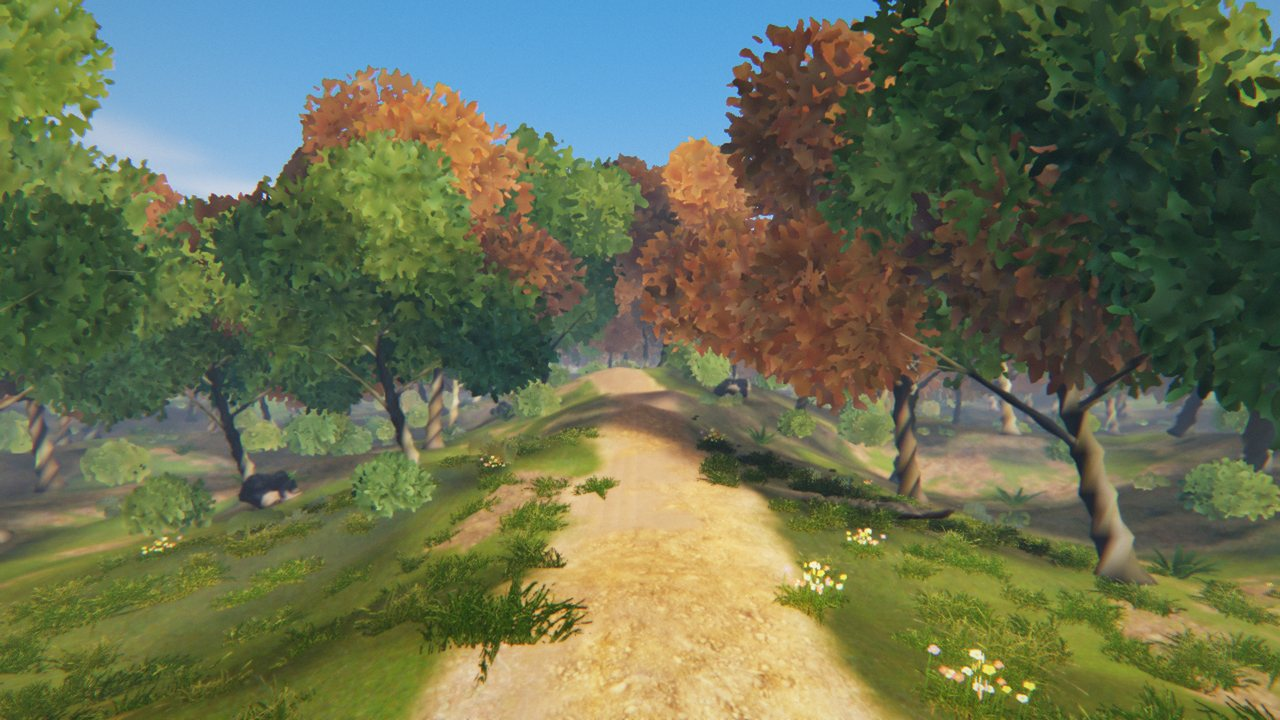
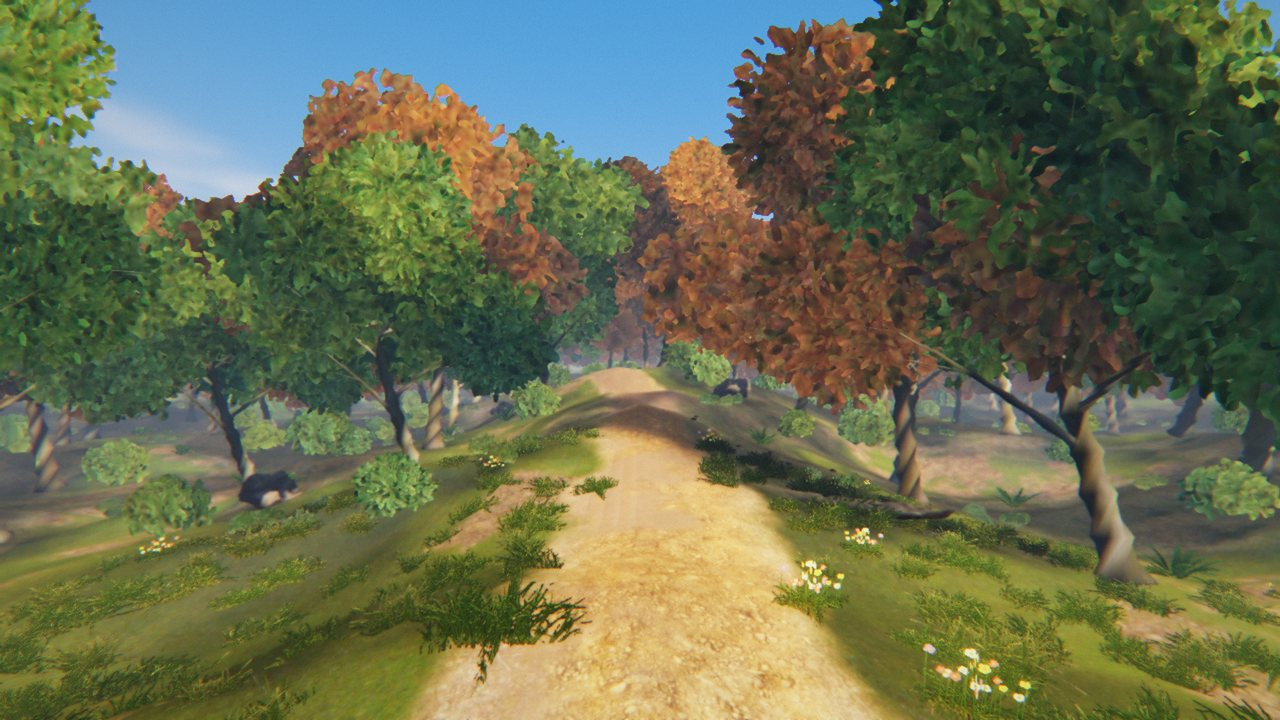
renderer and roadmap docs for foliage, refreshed readme images

diff --git a/docs/renderer.md b/docs/renderer.md
@@ -57,6 +57,19 @@ Pen+ textures have no mipmaps, so every atlas cell stores its own mip chain and 
 11. **Composite.** Exposure, ACES tone mapping, the colour grade, fades and flashes.
 12. **HUD.** The `message` and `status` text draws as glyph quads from a font atlas. The layout updates only when the text changes.
 
+## Foliage
+
+Trees, bushes, ferns and grass are generated offline by `tools/make_foliage.py` from CC0 Poly Haven leaf, frond, twig and bark textures, and stored as ordinary props with a per-vertex foliage flag.
+
+- **Leaf clusters.** Broadleaf crowns are a few hundred camera-facing cards. Each shows a baked sprite of about 80 overlapping leaves. Card normals point out from the crown centre, so the crown lights as one soft volume with a sunlit and a shaded side. The bake lights leaves from both sides and darkens the inside of the crown, and the shader adds sky light, wrap lighting and translucency when the sun is behind the leaves.
+- **Conifers** are crossed needle cards on outward branches, in irregular tiers with gaps. Willows hang strands of fronds from arching limbs. Ferns are rosettes of arching frond cards.
+- **Alpha mips.** Every prop texture stores its own mip chain. For cutout textures each mip is rescaled so the same fraction of pixels stays opaque, which keeps distant crowns full instead of letting them dissolve.
+- **Wind** is one field shared by every foliage vertex and the grass shader. Gusts travel across the level as waves, trees bend as a whole, each leaf clump sways on its own phase, and grass bends away from the player.
+- **Ground.** Under canopies the bake traces sun and sky rays through the crowns, with noise gaps that make dapples. At run time the dappled areas shimmer as the wind moves. Shaded forest floor blends to a scanned leaf-litter material with moss.
+- **Grass** is a field of camera-following cards drawn from a height and density map, with lawn, meadow (wildflowers), dry and forest styles. It writes depth so TAA treats it correctly.
+- **Sunbeams** are a screen-space march from each pixel toward the sun's screen position over the G-buffer's sky mask, added in the haze pass.
+- **Speed.** Leaf pixels take a short shading path. Each crown's leaf cards are split at build time into a coarse third, which is always drawn and grows with distance, and a detail two thirds in separate chunks. Detail chunks fade out between 20 and 32 m and aren't submitted at all beyond that. Level geometry is sorted into spatial chunks, and chunks outside the view are skipped.
+
 ## Portals
 
 With `Game(portals=True)`, each portal is a disc on a wall or floor with a centre, a normal, and right and up axes. To draw the view through portal A, the engine moves the camera through it: it takes the camera's position and axes relative to A and re-expresses them relative to B, turned around. It repeats this up to four times for portals that see each other, shrinking a screen-space window to the portal's outline each time. It then renders the deepest view first into a render target, so each shallower view shows the deeper one inside its portal. A clip plane just in front of the exit portal removes the wall it sits on. The main pass draws the portal disc by sampling that render target at the pixel's screen position. Collision ignores the wall a portal is on while the player is inside its outline, and crossing the portal plane moves the player and rotates their velocity and view by the same transform.

diff --git a/ROADMAP.md b/ROADMAP.md
@@ -56,6 +56,7 @@ Status: `[ ]` not started, `[~]` works but has known gaps, `[x]` built and check
 - [x] Level styles: lab, house, dungeon, outdoor, plain
 - [x] Viewmodel is data-driven: none, arms, device, or any prop or model, switchable from the `viewmodel` variable
 - [x] Prop library made in Blender from Poly Haven models (32 props) plus generated foliage with alpha-cut leaves and wind sway
+- [x] Forests: `forest()` and `scatter()` helpers; oak, birch, maple, willow, pine and spruce; ferns, bushes, logs and mossy rocks; wind gusts; lawn, meadow, dry and forest grass styles; leaf litter and moving dappled light under canopies; sunbeams; distance LOD. A 400-tree forest runs at 60 fps inside and drops to quality 2 for full overviews.
 - [x] Foliage pass: baked leaf-cluster sprites drawn as crown-facing billboards with spherised normals, translucency, two-sided baked light and crown self-shadowing, coverage-preserving alpha mips, per-cluster colour variation, tiered irregular pines, crisp varied grass cards in the G-buffer, and TAA tuned for thin foliage. Checked at 3, 10 and 30 m and in a slow pan.
 - [x] Signs with letters, digits and punctuation
 
@@ -77,7 +78,8 @@ Status: `[ ]` not started, `[~]` works but has known gaps, `[x]` built and check
 
 ## Known gaps
 
-- Broadleaf canopies are camera-facing leaf-cluster sprites. They hold up from about 3 m outward, but standing inside a crown still shows individual sprites. Pines are crossed needle cards and read slightly soft up close.
+- Broadleaf canopies are camera-facing leaf-cluster sprites. They hold up from about 3 m outward. Very close cards fade out in first person, so standing inside a crown shows gaps rather than flat sprites.
+- Terrain textures soften at grazing angles because there is no anisotropic filtering.
 - Distant hills beyond the playable area are low in detail.
 - Portals work only in first person, and portal views render at half resolution.
 - The Portal Lab playthrough is timing-sensitive in the harness: it passes as written in `tools/harness/runs/portals.txt`, but removing the extra `log` steps after the first teleport has made the walk west along the ledge stall in some runs. The cause is not yet found.
